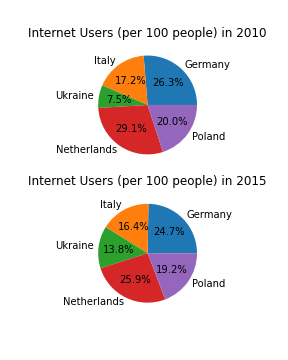
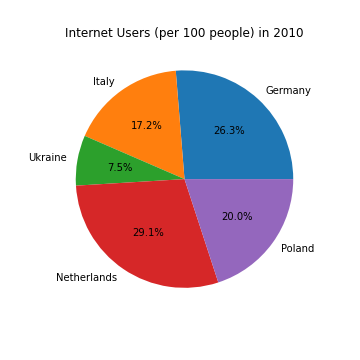
Add files via upload
Made changes in the pie chart.

diff --git a/Visualisation.py b/Visualisation.py
@@ -42,15 +42,10 @@ The dataset is passed as an argument for plotting.
 def piechart(data_pie):
     piedata = data_pie  # Dataset for plotting pie chart is stored in new variable
     print(piedata)  # Printing the dataset that is used for pie chart plotting
-    plt.figure(figsize=(4,5))
-    plt.subplot2grid((2,1), (0, 0))  # Subploting
+    plt.figure(figsize=(5,5))
     plt.pie(piedata["2010"], labels=piedata["Countries"], autopct="%1.1f%%")
-    # Title for the subplot
+    # Title for the pie chart
     plt.title("Internet Users (per 100 people) in 2010")
-    plt.subplot2grid((2,1), (1, 0))  # Subploting
-    plt.pie(piedata["2015"], labels=piedata["Countries"], autopct="%1.1f%%")
-    # title for the subplot
-    plt.title("Internet Users (per 100 people) in 2015")
     plt.savefig("Internet Users - Pie Chart.png")
     plt.show()
     return  # Return statement is used at the end of a function
